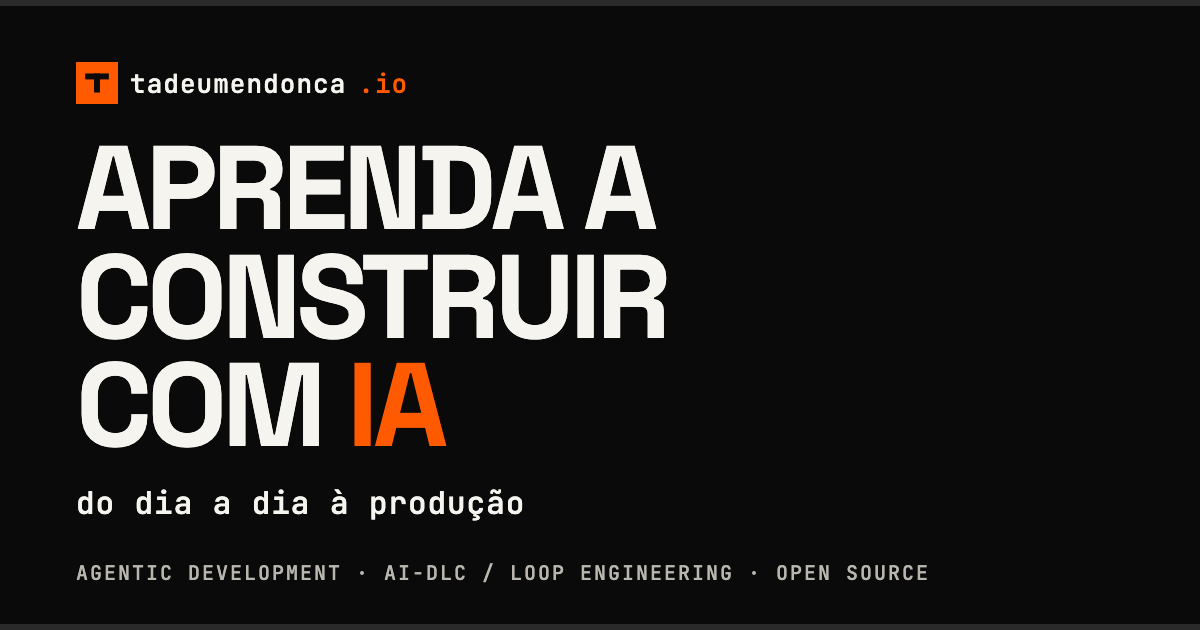
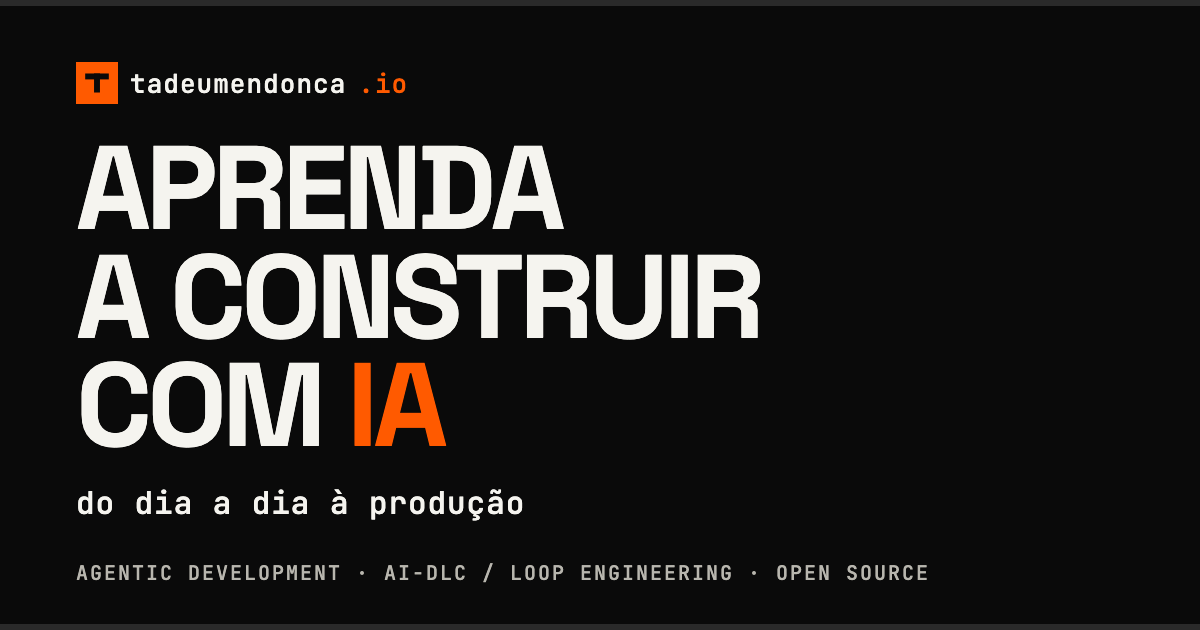
fix(fed): one edition line-planned and the other auto-wrapped reads as a translation
brand-guardian on #301, and it approved the WORDS — 'Aprenda a construir com IA' is idiomatic
pt-BR imperative, not a calque; 'do dia a dia à produção' has a register the English reaches for
and only half gets; the accent landing on IA rather than a stranded English AI is most of what
makes it read as authored. Its adjustment was about the LAYOUT, and it is right.

The en hook broke where a human decided — LEARN TO BUILD / WITH AI, a clean semantic seam. The pt
hook broke wherever the browser ran out of room — APRENDA A / CONSTRUIR / COM IA — stranding the
article 'A' at the end of a line, away from the verb it belongs to. Same words, but one edition
line-planned and the other auto-wrapped is the structural signature of a TRANSLATION, which this
copy is not: it is the hero's own pt sentence, authored as a peer.

So the break is authored per locale now: an array of leading rows rather than one <br> and a hope.
pt sets three rows, en two, both by decision. The parity assertion joins across the breaks — a
break is layout, a different word is drift — and a new test pins each edition's line plan so the
next edit cannot quietly hand it back to the browser.

It also measured the term change rather than reasoning about character counts: the meta line runs
71% of the card width with ~270px of clear margin, so 'Agentic development' costs nothing
structurally. And at the ~320px a feed actually renders, NEITHER version is legible — the
[…]

Changed region(s): [[0.0617, 0.3921, 0.6475, 0.5429], [0.4625, 0.2111, 0.555, 0.3619]]

diff --git a/apps/fed/src/content/rampup.pt.md b/apps/fed/src/content/rampup.pt.md
@@ -132,7 +132,7 @@ https://www.youtube.com/watch?v=I4B37S1dyQQ
 
 ### X / Twitter
 
-- **[@AnthropicAI](https://x.com/AnthropicAI)** · **[@ClaudeDevs](https://x.com/ClaudeDevs)** · **[@bcherny](https://x.com/bcherny)** (Boris Cherny, Claude Code) — o mais perto da fonte em ferramental de dev agentic.
+- **[@AnthropicAI](https://x.com/AnthropicAI)** · **[@ClaudeDevs](https://x.com/ClaudeDevs)** · **[@bcherny](https://x.com/bcherny)** (Boris Cherny, Claude Code) — o mais perto da fonte em ferramental de agentic development.
 - **[@OpenAI](https://x.com/OpenAI)** · **[@OpenAIDevs](https://x.com/OpenAIDevs)** — Codex e o outro lado da fronteira.
 - **[@rubenhassid](https://x.com/rubenhassid)** · **[@sairahul1](https://x.com/sairahul1)** · **[@tom_doerr](https://x.com/tom_doerr)** — praticantes postando técnicas e ferramentas que valem roubar.
 - **[@virattt](https://x.com/virattt)** — IA aplicada a finanças, se esse for seu domínio.

diff --git a/apps/fed/src/content/rampup.en.md b/apps/fed/src/content/rampup.en.md
@@ -132,7 +132,7 @@ https://www.youtube.com/watch?v=I4B37S1dyQQ
 
 ### X / Twitter
 
-- **[@AnthropicAI](https://x.com/AnthropicAI)** · **[@ClaudeDevs](https://x.com/ClaudeDevs)** · **[@bcherny](https://x.com/bcherny)** (Boris Cherny, Claude Code) — closest to the source on agentic dev tooling.
+- **[@AnthropicAI](https://x.com/AnthropicAI)** · **[@ClaudeDevs](https://x.com/ClaudeDevs)** · **[@bcherny](https://x.com/bcherny)** (Boris Cherny, Claude Code) — closest to the source on agentic development tooling.
 - **[@OpenAI](https://x.com/OpenAI)** · **[@OpenAIDevs](https://x.com/OpenAIDevs)** — Codex and the other side of the frontier.
 - **[@rubenhassid](https://x.com/rubenhassid)** · **[@sairahul1](https://x.com/sairahul1)** · **[@tom_doerr](https://x.com/tom_doerr)** — practitioners posting techniques and tools worth stealing.
 - **[@virattt](https://x.com/virattt)** — AI applied to finance, if that's your domain.
